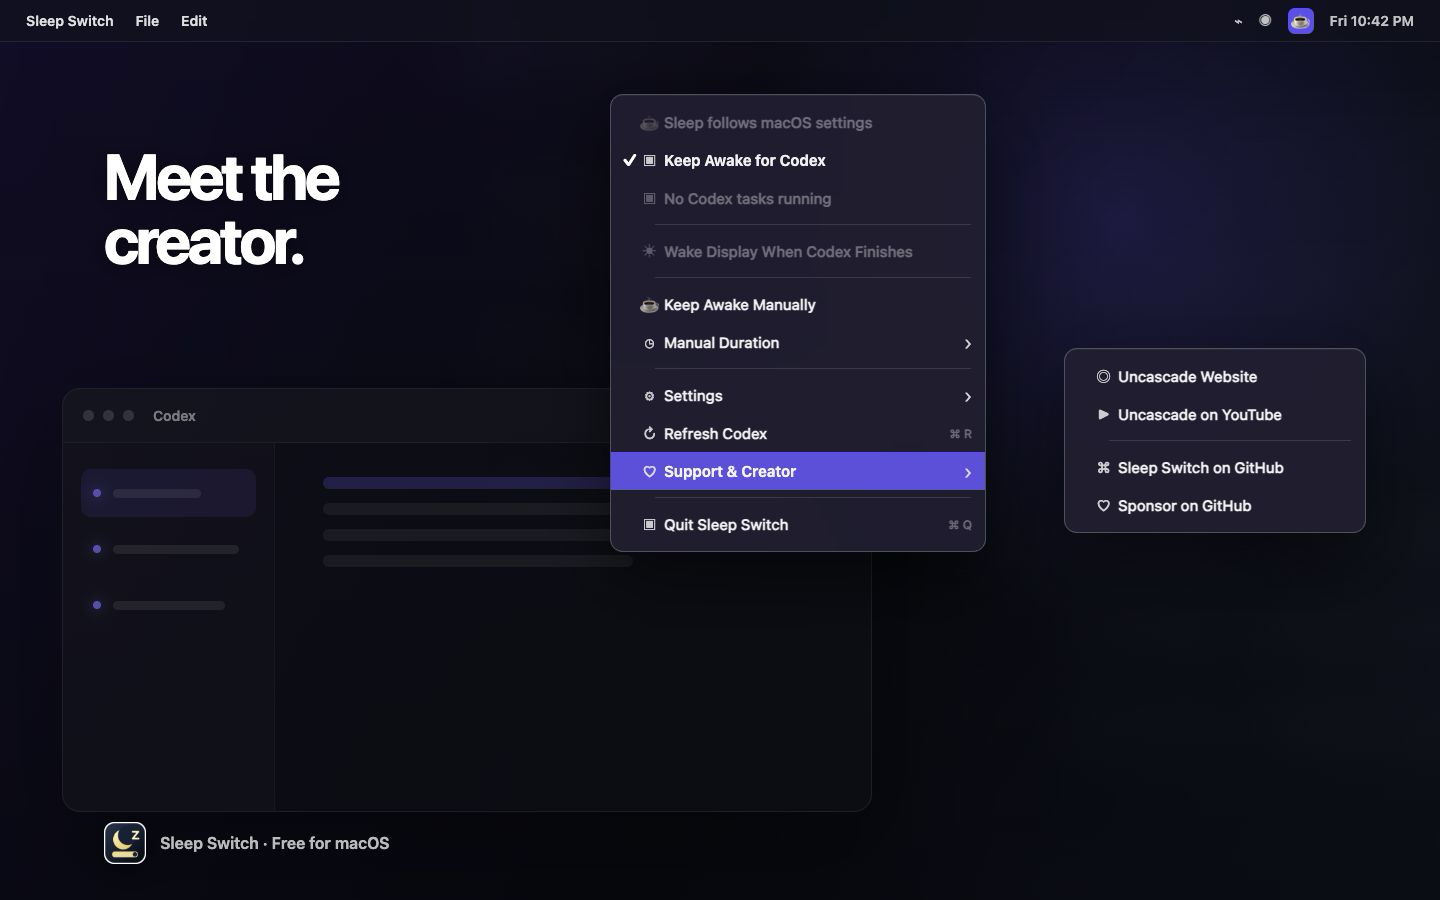
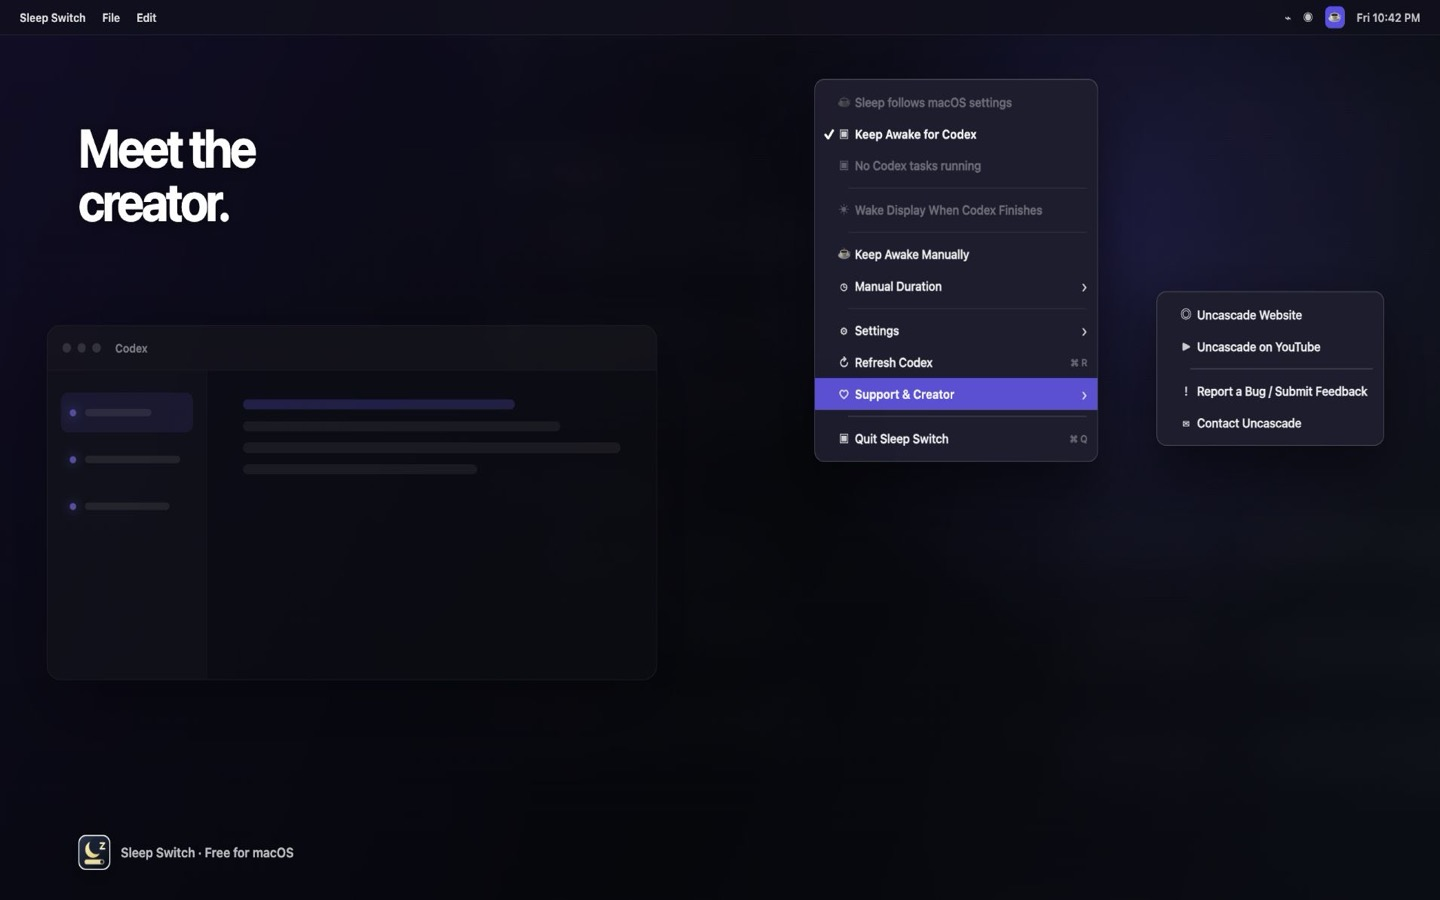
Prepare App Store review fixes for 2.1.0

diff --git a/Tests/AgentTrackerTests.swift b/Tests/AgentTrackerTests.swift
@@ -710,8 +710,8 @@ struct AgentTrackerTests {
             "uses a heart for the support menu"
         )
         expect(
-            AppLinks.versionTitle(version: "2.0.0", build: "14")
-                == "Version 2.0.0 (14)",
+            AppLinks.versionTitle(version: "2.1.0", build: "15")
+                == "Version 2.1.0 (15)",
             "shows the reviewable app version and build"
         )
         expect(links.count == 4, "keeps the support menu concise")
@@ -730,14 +730,14 @@ struct AgentTrackerTests {
             "links to the Uncascade YouTube channel"
         )
         expect(
-            AppLinks.sourceCode.url.absoluteString
-                == "https://github.com/mistermantas/macos-sleep-switch",
-            "links to the Sleep Switch source"
+            AppLinks.reportFeedback.url.absoluteString
+                == "https://github.com/mistermantas/macos-sleep-switch/issues",
+            "links to the public bug and feedback form"
         )
         expect(
-            AppLinks.sponsor.url.absoluteString
-                == "https://github.com/sponsors/mistermantas",
-            "uses GitHub's canonical Sponsors URL"
+            AppLinks.contactUncascade.url.absoluteString
+                == "https://uncascade.com/contact/",
+            "links to a functional support page"
         )
     }
 

diff --git a/Sources/SleepSwitch/AppLinks.swift b/Sources/SleepSwitch/AppLinks.swift
@@ -39,19 +39,19 @@ enum AppLinks {
         url: URL(string: "https://www.youtube.com/@uncascade")!,
         symbolName: "play.rectangle"
     )
-    static let sourceCode = AppLink(
-        title: "Sleep Switch on GitHub",
-        url: URL(string: "https://github.com/mistermantas/macos-sleep-switch")!,
-        symbolName: "chevron.left.forwardslash.chevron.right"
+    static let reportFeedback = AppLink(
+        title: "Report a Bug / Submit Feedback",
+        url: URL(string: "https://github.com/mistermantas/macos-sleep-switch/issues")!,
+        symbolName: "exclamationmark.bubble"
     )
-    static let sponsor = AppLink(
-        title: "Sponsor on GitHub",
-        url: URL(string: "https://github.com/sponsors/mistermantas")!,
-        symbolName: "heart"
+    static let contactUncascade = AppLink(
+        title: "Contact Uncascade",
+        url: URL(string: "https://uncascade.com/contact/")!,
+        symbolName: "envelope"
     )
 
     static let groups: [[AppLink]] = [
         [uncascadeWebsite, uncascadeYouTube],
-        [sourceCode, sponsor]
+        [reportFeedback, contactUncascade]
     ]
 }

diff --git a/AppStore/Screenshots/studio.html b/AppStore/Screenshots/studio.html
@@ -570,8 +570,8 @@
       <div class="row"><span></span><span class="icon">◎</span><span>Uncascade Website</span><span></span></div>
       <div class="row"><span></span><span class="icon">▶</span><span>Uncascade on YouTube</span><span></span></div>
       <div class="separator"></div>
-      <div class="row"><span></span><span class="icon">⌘</span><span>Sleep Switch on GitHub</span><span></span></div>
-      <div class="row"><span></span><span class="icon">♡</span><span>Sponsor on GitHub</span><span></span></div>
+      <div class="row"><span></span><span class="icon">!</span><span>Report a Bug / Submit Feedback</span><span></span></div>
+      <div class="row"><span></span><span class="icon">✉</span><span>Contact Uncascade</span><span></span></div>
     </div>
     <div class="brand-lockup"><img src="../../Assets/AppIcon.png" alt=""><span>Sleep Switch · Free for macOS</span></div>
   </section>

diff --git a/APP_STORE.md b/APP_STORE.md
@@ -55,14 +55,14 @@ The Mac App Store requires App Sandbox. A sandboxed app can use Apple’s public
 ## App Store Connect record
 
 - **Apple ID:** `6794709246`
-- **Name:** Sleep Switch for Mac AI Agents
+- **Name:** Sleep Switch for AI Agents
 - **Subtitle:** Keep long-running work awake
 - **Primary category:** Developer Tools
 - **Secondary category:** Utilities
 - **Price:** Free (`$0.00`)
 - **Bundle ID:** `lt.mantas.sleepswitch`
 - **SKU:** `sleep-switch-macos`
-- **Support URL:** `https://github.com/mistermantas/macos-sleep-switch/issues`
+- **Support URL:** `https://uncascade.com/contact/`
 - **Marketing URL:** `https://github.com/mistermantas/macos-sleep-switch`
 - **Privacy policy URL:** `https://github.com/mistermantas/macos-sleep-switch/blob/main/PRIVACY.md`
 - **Copyright:** 2026 Mantas Vilčinskas
@@ -78,7 +78,7 @@ Start a manual session indefinitely or choose a duration. The display can still 
 
 Sleep Switch lives entirely in the menu bar. It has no accounts, analytics, ads, tracking, or network service.
 
-Version 2.0 adds **Insights**, a local view of estimated energy use and coarse agent activity intervals. History is saved on the Mac by default, can be paused, and can be deleted at any time. The charts never include prompts, output, file names, command lines, or session paths.
+Version 2.1 adds **Insights**, a local view of estimated energy use and coarse agent activity intervals. History is saved on the Mac by default, can be paused, and can be deleted at any time. The charts never include prompts, output, file names, command lines, or session paths.
 
 Free and open source.
 
@@ -94,7 +94,9 @@ Manual keep-awake sessions work immediately. To test Codex tracking, choose **Co
 
 The app uses `IOPMAssertionCreateWithName` to prevent idle system or display sleep and `IOPMAssertionDeclareUserActivity` for the optional one-shot display wake.
 
-For version 2.0.0, reviewers can also open **Insights…** from the menu. The Energy tab shows the live estimate and five-minute local buckets; the Agent activity tab shows coarse intervals for supported local Codex tasks. If the test Mac has not been running long enough to produce a bucket, the app displays an empty state rather than fabricated data. **Settings → Save Energy & Agent History** pauses disk writes, and **Delete History…** removes the local SQLite rows.
+For version 2.1.0 (build 15), reviewers can also open **Insights…** from the menu. The Energy tab shows the live estimate and five-minute local buckets; the Agent activity tab shows coarse intervals for supported local Codex tasks. If the test Mac has not been running long enough to produce a bucket, the app displays an empty state rather than fabricated data. **Settings → Save Energy & Agent History** pauses disk writes, and **Delete History…** removes the local SQLite rows.
+
+The **Support & Creator** menu in this App Store build contains no donation or sponsorship action. It links to the public bug/feedback form and Uncascade contact support. The app has no accounts, subscriptions, payments, or in-app purchases.
 
 ## Assets
 
@@ -111,7 +113,8 @@ them. `AppStore/Screenshots/Source/current-menu.png` is the real menu reference.
 
 - Version 1.8.0 (build 11) was uploaded to App Store Connect on August 1, 2026,
   and accepted for processing as a universal sandboxed app.
-- The v2.0.0 Mac candidate is build 14. It adds local Insights and bounded history;
+- The v2.1.0 Mac candidate is build 15. It adds the review fixes, local Insights,
+  and bounded history;
   the iOS companion source is a preview target and is not part of this Mac App
   Store submission.
 - Screenshots, listing copy, URLs, review notes, categories, and the free price
@@ -120,7 +123,7 @@ them. `AppStore/Screenshots/Source/current-menu.png` is the real menu reference.
 - App Store Connect is ready for **Update Review** after the requested physical-
   device screen recording is attached to the reviewer reply.
 
-For a v2 submission, record the sandboxed TestFlight build, show **Support &
-Creator → Version 2.0.0 (14)**, open **Insights…**, demonstrate the history
+For a 2.1 submission, record the sandboxed TestFlight build, show **Support &
+Creator → Version 2.1.0 (15)**, open **Insights…**, demonstrate the history
 toggle/delete flow, attach the recording in the review conversation, then choose
-**Update Review** to resubmit.
+**Submit for Review** to resubmit.

diff --git a/PRIVACY.md b/PRIVACY.md
@@ -11,7 +11,7 @@ Sleep Switch processes only the local information needed to provide its features
 - App preferences, such as keep-awake settings and timer choices, are stored locally in macOS user defaults.
 - The direct-download version checks the local process list and Codex task markers to detect supported agent sessions.
 - The Mac App Store version reads Codex task markers only after you select a `.codex` folder. Access is read-only and is stored as an app-scoped macOS security bookmark.
-- Version 2.0.0 can save estimated power readings and coarse agent activity intervals in a local SQLite database so Insights can show history after a restart. Saving is enabled by default, can be paused in **Insights** or **Settings**, and can be deleted from either place. The database is bounded and does not contain prompts, output, file names, command lines, usernames, or serial numbers.
+- Version 2.1.0 can save estimated power readings and coarse agent activity intervals in a local SQLite database so Insights can show history after a restart. Saving is enabled by default, can be paused in **Insights** or **Settings**, and can be deleted from either place. The database is bounded and does not contain prompts, output, file names, command lines, usernames, or serial numbers.
 
 This information stays on your Mac. It is not sent to the developer or any third party.
 
@@ -25,11 +25,11 @@ Sleep Switch has:
 - no developer-operated server; and
 - no bundled third-party SDKs.
 
-The Mac application does not upload the local history or agent information. The repository contains an iOS companion preview with an optional private CloudKit transport, but it is not enabled in the v2.0.0 Mac build and is not a developer-operated service. Local preferences, history, and folder-access bookmarks remain on your Mac until you change them, delete them, reset the app, or remove the app’s data.
+The app does not upload the local history or agent information. The repository contains an iOS companion preview with an optional private CloudKit transport, but it is not enabled in the 2.1.0 Mac App Store build and is not a developer-operated service. Local preferences, history, and folder-access bookmarks remain on your Mac until you change them, delete them, reset the app, or remove the app’s data.
 
 ## External links
 
-The **Support & Creator** menu can open the Uncascade website, YouTube, GitHub, and GitHub Sponsors in your default browser. Sleep Switch does not receive information about your activity on those services. Their own privacy policies apply after you leave the app.
+The **Support & Creator** menu can open the Uncascade website, YouTube, the public bug tracker, and Uncascade contact support in your default browser. Sleep Switch does not receive information about your activity on those services. Their own privacy policies apply after you leave the app.
 
 ## Children’s privacy
 

diff --git a/README.md b/README.md
@@ -37,7 +37,7 @@ Click the menu-bar icon once to open Sleep Switch. A checkmark means that an opt
 | **Manual Duration** | Starts a manual session indefinitely, for a preset time, or for a custom time. |
 | **Settings** | Opens the behavior and startup preferences described below. |
 | **Refresh Agents / Refresh Codex** | Checks for session changes immediately instead of waiting for the next automatic refresh. |
-| **Support & Creator** | Opens the Uncascade website and YouTube channel, this repository, or GitHub Sponsors, and shows the installed version and build. |
+| **Support & Creator** | Opens the Uncascade website and YouTube channel, a bug/feedback form, or Uncascade contact support, and shows the installed version and build. |
 | **Quit Sleep Switch** | Stops Sleep Switch, releases its power assertions, and restores normal lid sleep if the lid-closed mode was active. |
 
 ### Settings
